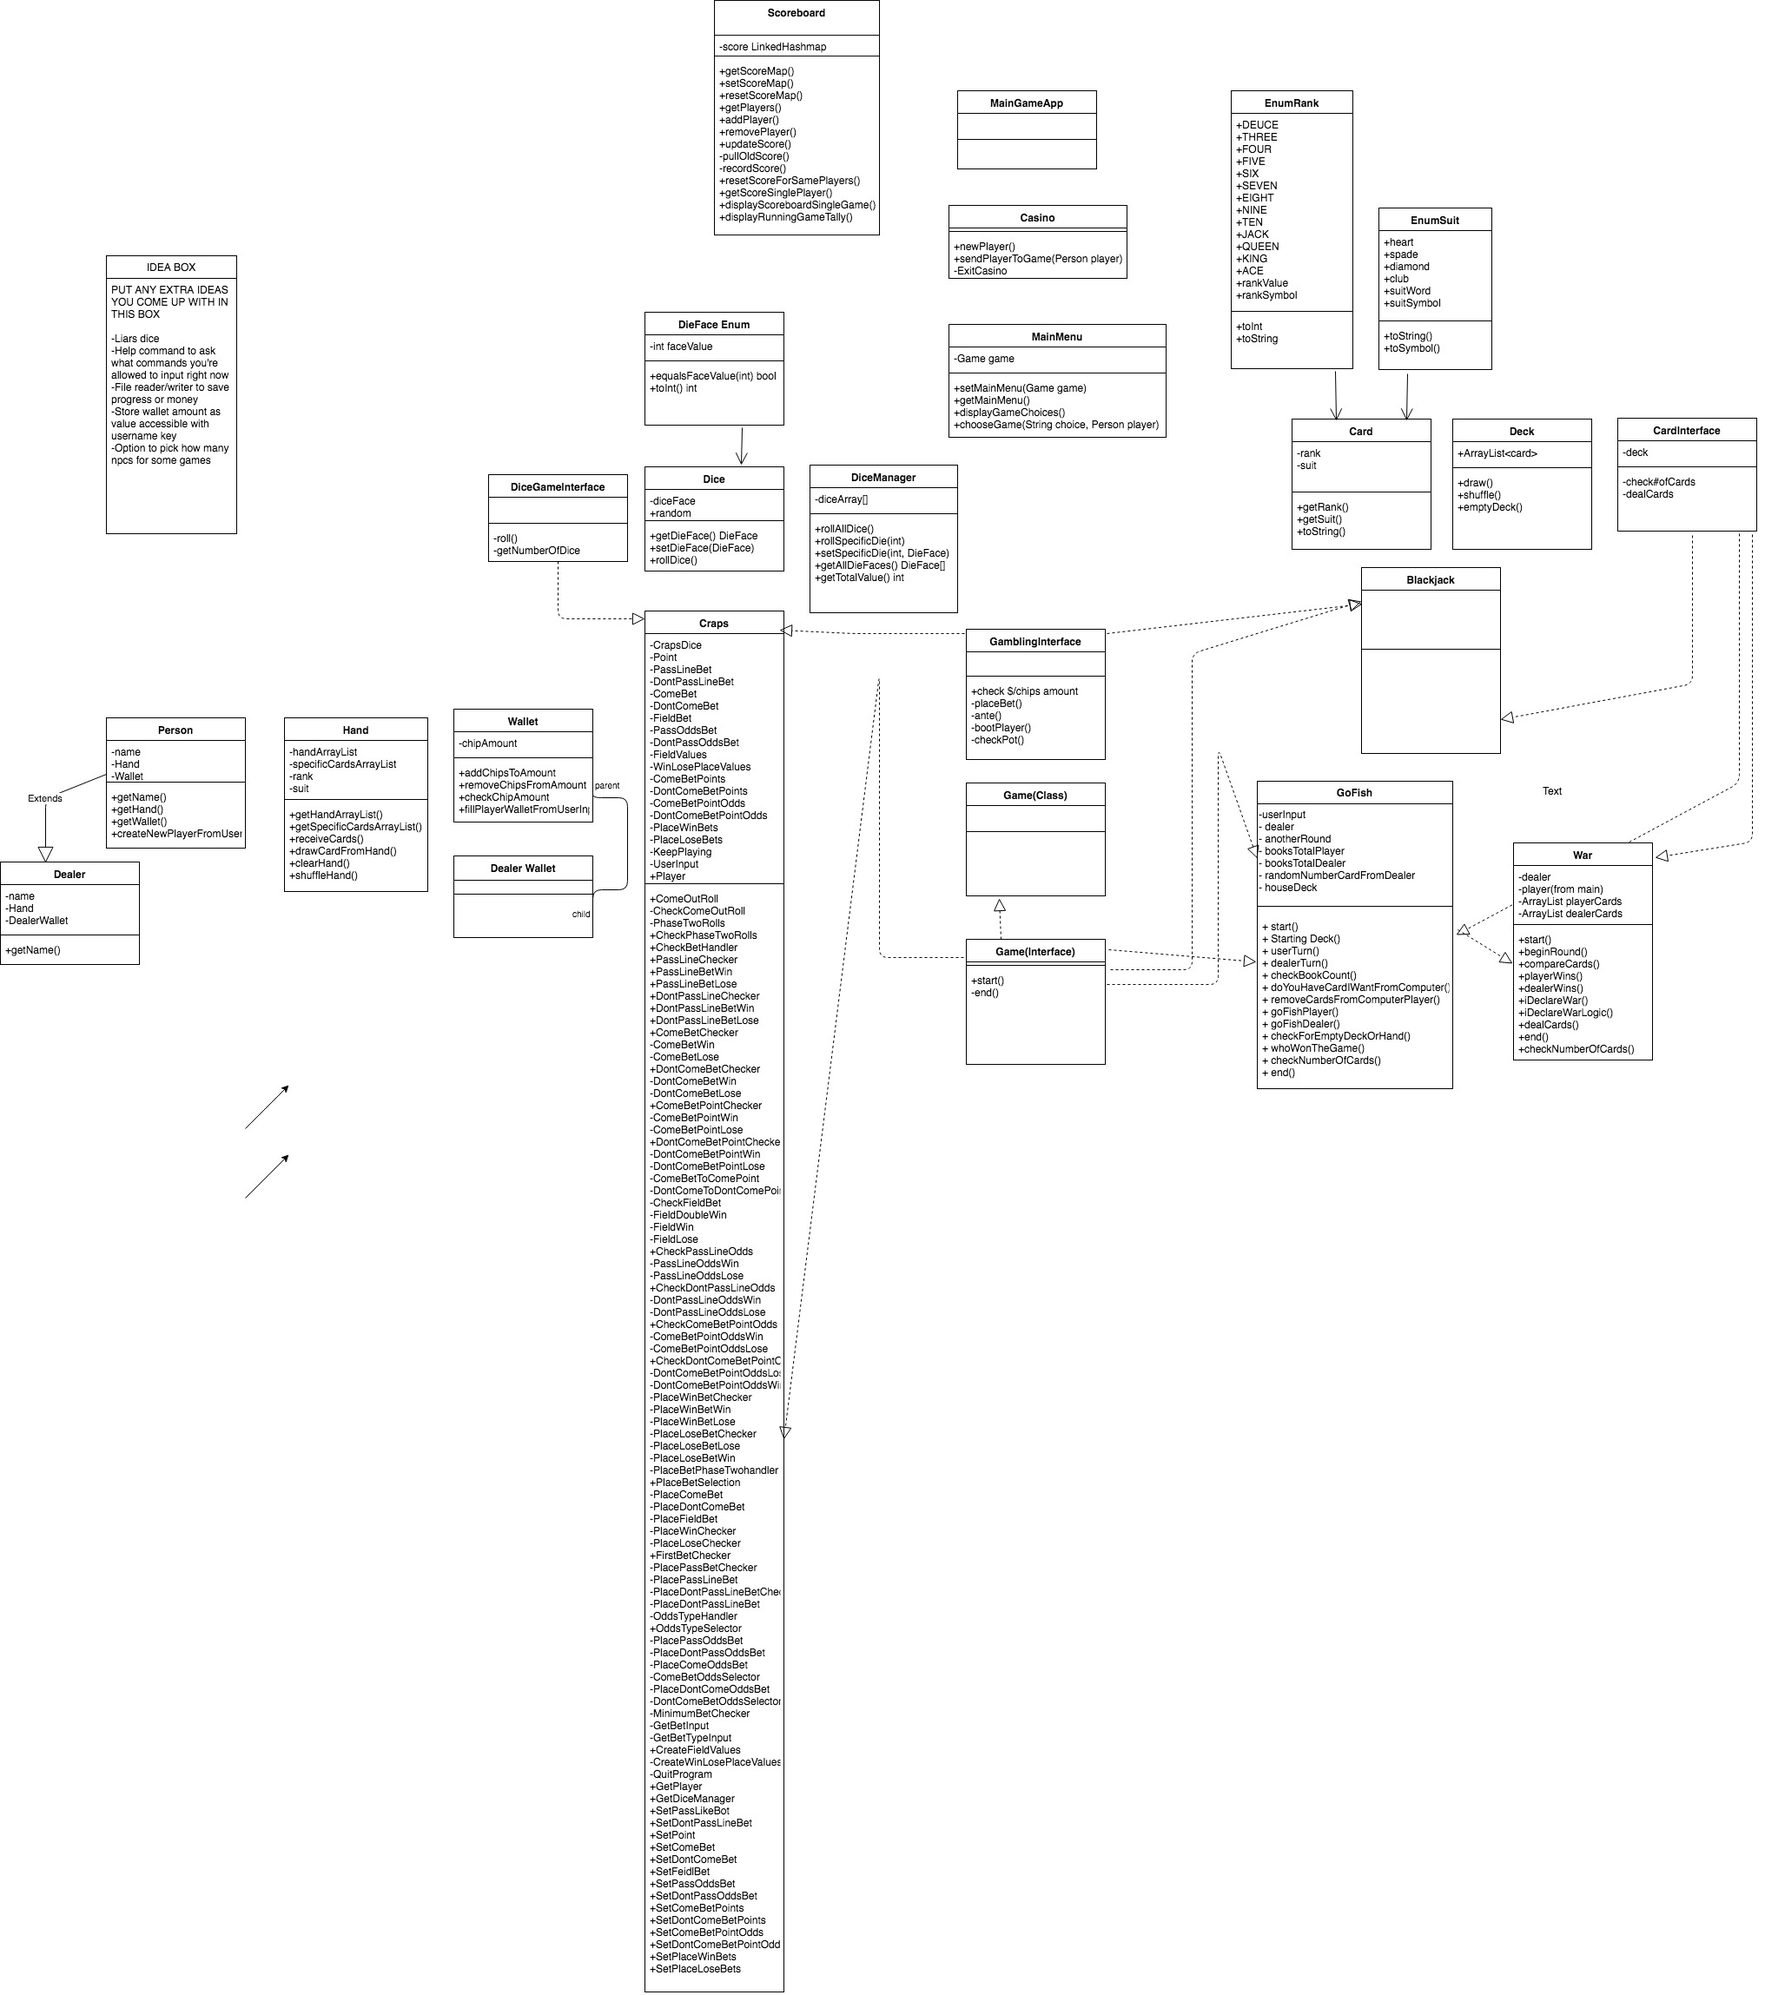
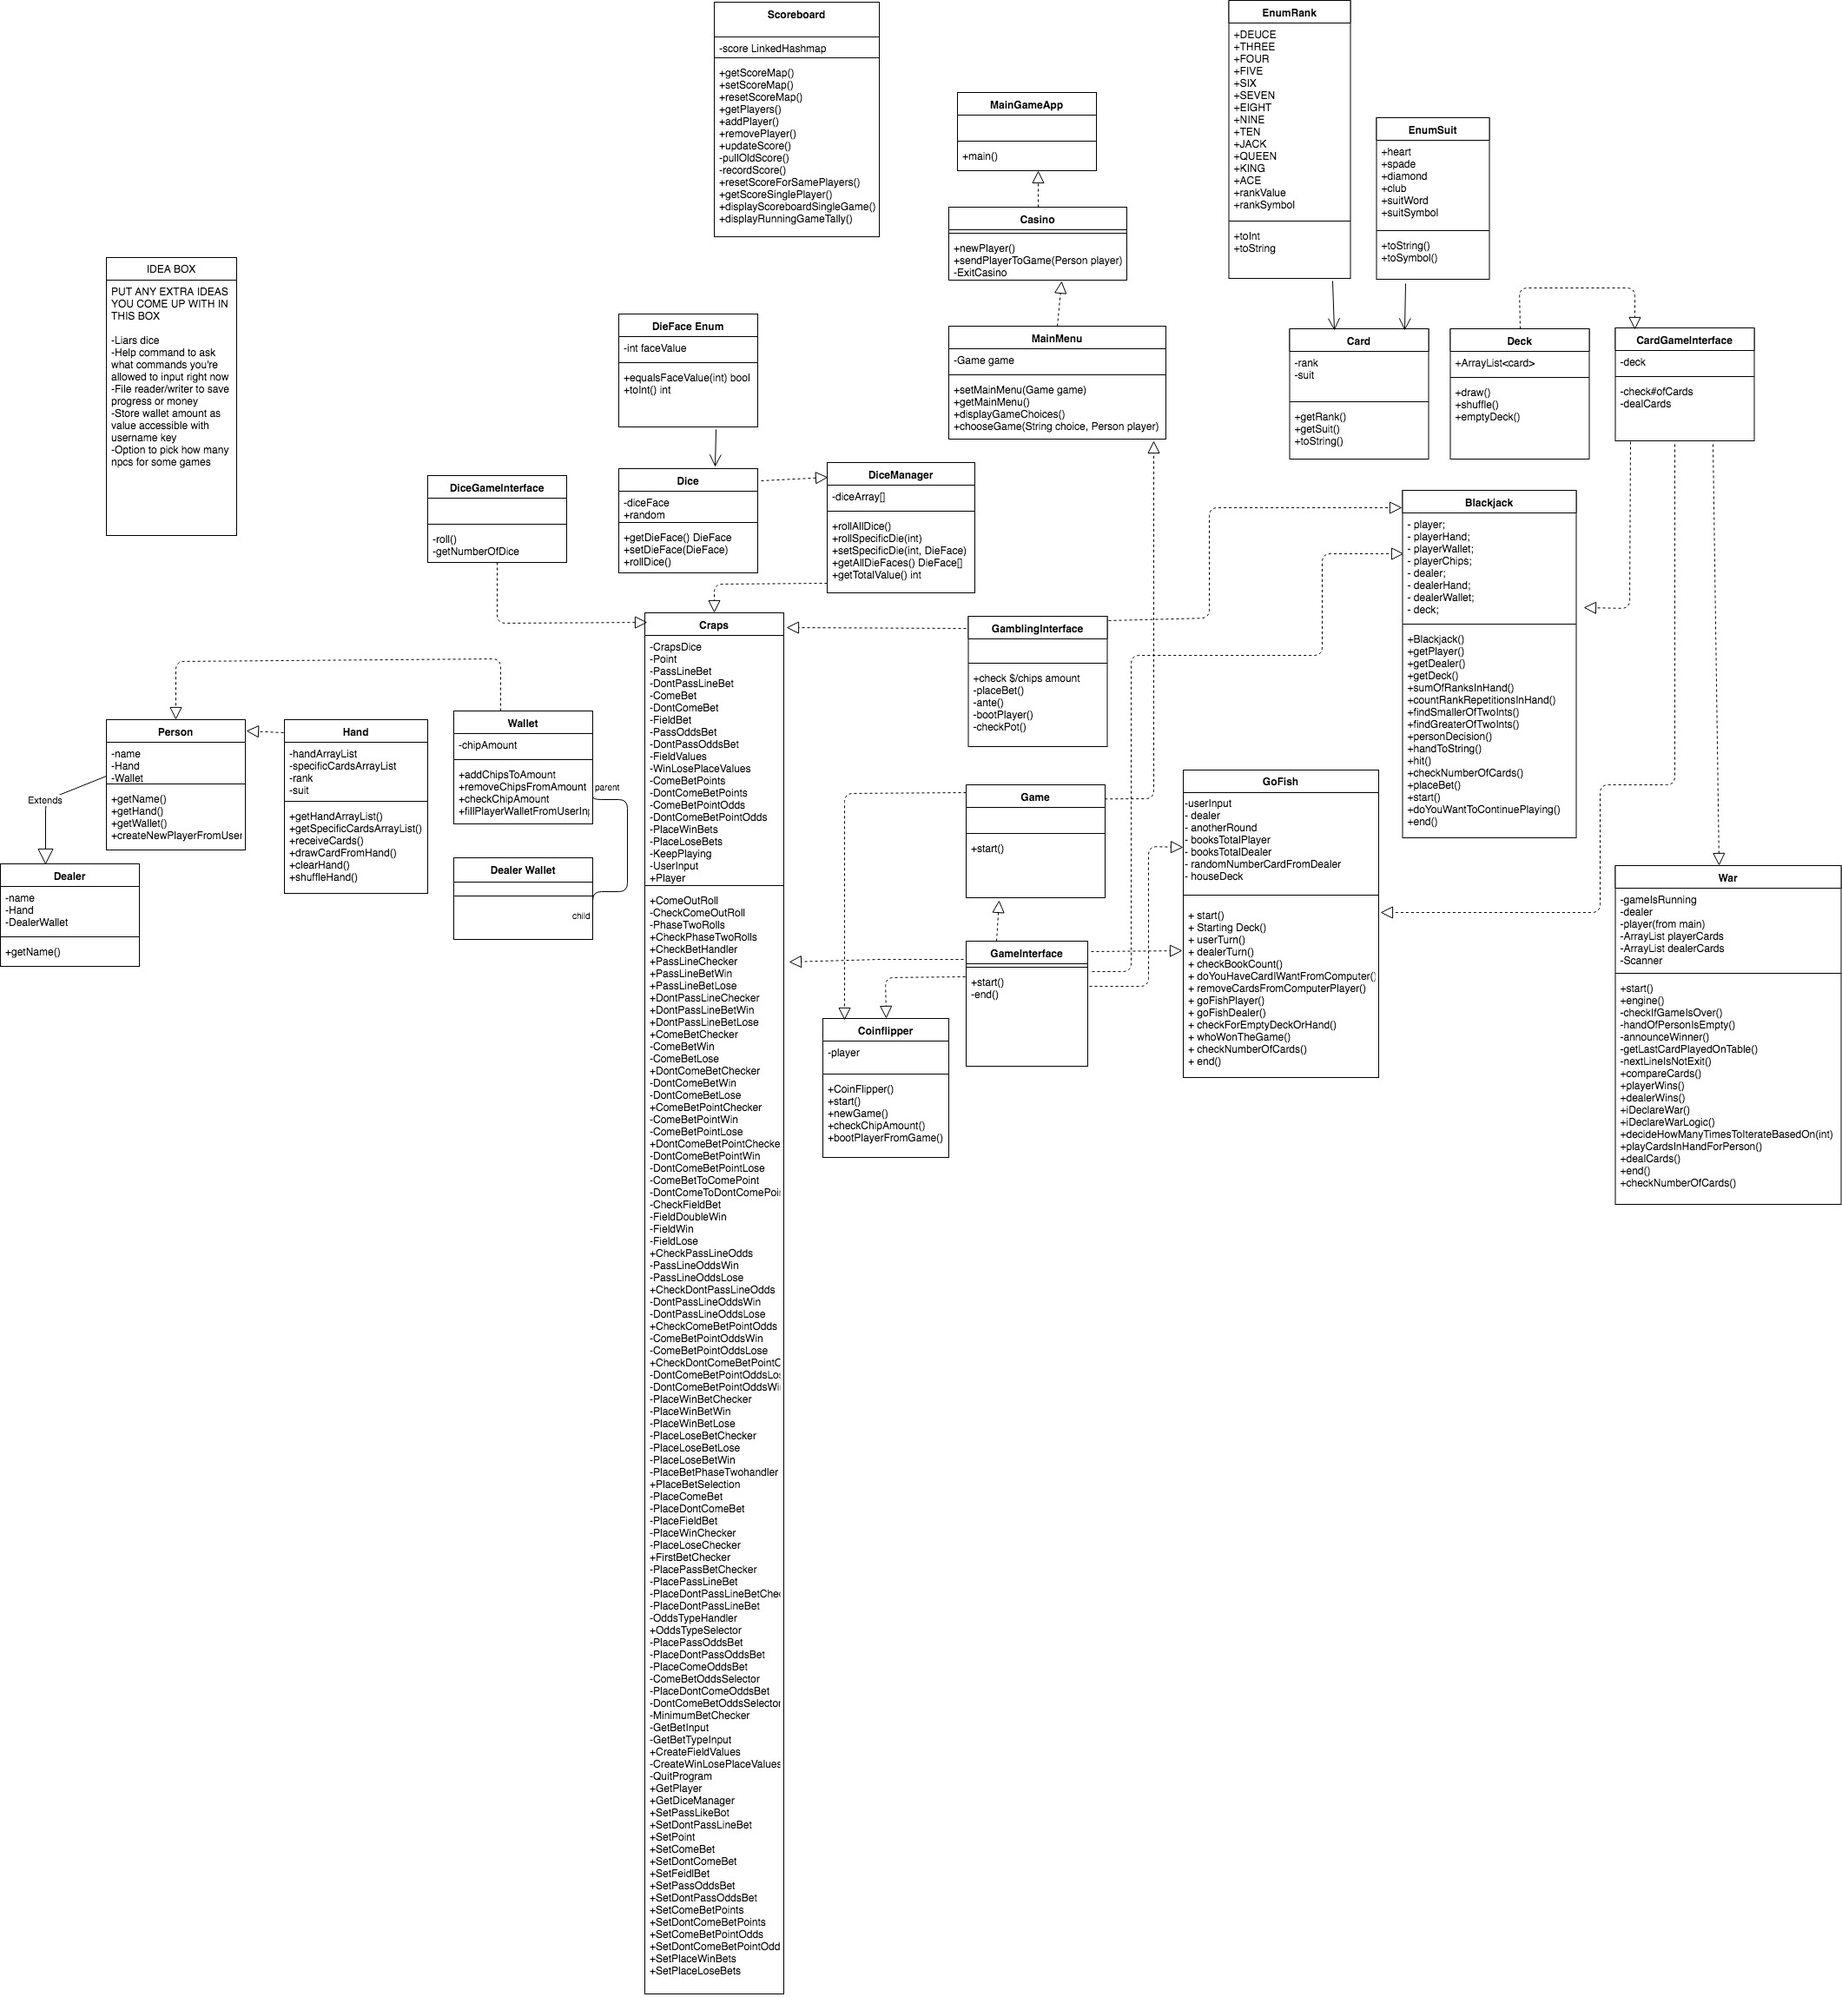
added coin flipper

diff --git a/src/main/java/io/zipcoder/casino/MainMenu.java b/src/main/java/io/zipcoder/casino/MainMenu.java
@@ -1,5 +1,6 @@
 package io.zipcoder.casino;
 
+import java.awt.*;
 import java.util.*;
 import java.util.Scanner;
 
@@ -24,10 +25,11 @@ public class MainMenu {
         Scanner in = new Scanner(System.in);
         String choice;
         do {
-            System.out.println("Please choose a game from the following menu:\nWar\nGo Fish\nBlackJack\nCraps");
+            System.out.println("Please choose a game from the following menu:\nWar\nGo Fish\nBlackJack\nCraps" +
+                    "\nCoin Flipper");
             choice = in.nextLine().toLowerCase();
         } while ( !(choice.equals("craps")) && !(choice.equals("go fish")) && !(choice.equals("war")) &&
-                !(choice.equals("blackjack")));
+                !(choice.equals("blackjack")) && !(choice.equals("coin flipper")));
         return choice;
     }
 

diff --git a/src/main/java/io/zipcoder/casino/War.java b/src/main/java/io/zipcoder/casino/War.java
@@ -137,7 +137,7 @@ public class War extends Game implements GameInterface, CardGameInterface {
 
     // Make private after testing / Make public for testing
     public void playCardInHandForPerson(ArrayList<Card> playedCards, Person person, int i) {
-        playedCards.add(person.getHand().getHandArrayList().remove(i));
+        playedCards.add(person.getHand().drawCardfromHand());
     }
 
     public void dealCards() {
